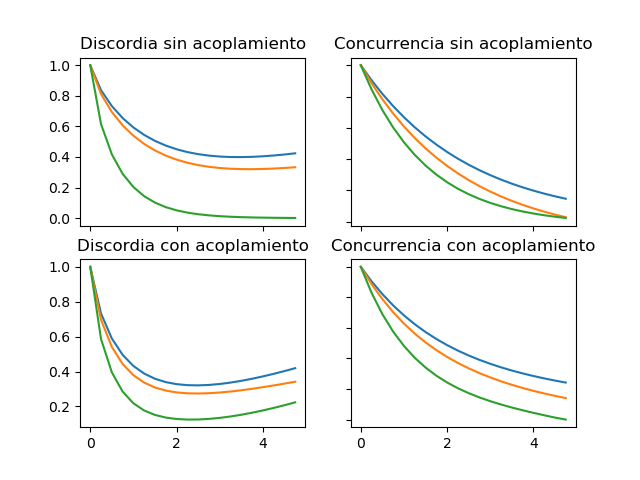
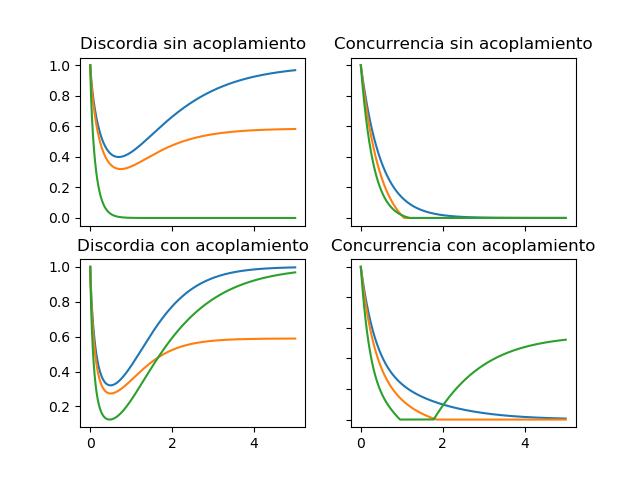
Cambio generado con script

diff --git a/master.py b/master.py
@@ -1,7 +1,7 @@
 from qutip import * #Liberia qutip
 from matplotlib.pyplot import * #Libreria matplotlib
 import numpy as np #Liberia numpy
-times = np.linspace(0,5,100) #definir intervalo temporal 
+times = np.linspace(0,5,20000) #definir intervalo temporal 
 I1 =  (1/(np.sqrt(2)))*(tensor(basis(2,0),basis(2,0))+tensor(basis(2,1),basis(2,1)))#Definir estado inicial Bell 1
 I2 =  (1/(np.sqrt(2)))*(tensor(basis(2,0),basis(2,1))+tensor(basis(2,1),basis(2,0)))#Definir estado inicial Bell 3
 I3 =  tensor(basis(2,0),basis(2,1))#Definir estado inicial logico 01
@@ -32,9 +32,9 @@ def entropy_cond(a,b,t1,t2):
 #Definir funcion que calcula ecuaciones maestras y evaluar si funciona fuera
 def me3(IN,RES):
     sol=mesolve(tensor(identity(2),identity(2)), IN, times, RES)
-    out=[[0 for i in range(20)],[0 for i in range(20)]]
-    conc=[0 for i in range(20)]
-    disc=[0 for i in range(20)]    
+    out=[[0 for i in range(20000)],[0 for i in range(20000)]]
+    conc=[0 for i in range(20000)]
+    disc=[0 for i in range(20000)]    
     def entropy_opt(a):
         ent_comp=[0 for i in range(4)]
         if a.matrix_element(tensor(basis(2,0)),tensor(basis(2,0)))+a.matrix_element(tensor(basis(2,1)),tensor(basis(2,1)))==0:
@@ -53,7 +53,7 @@ def me3(IN,RES):
         else:
             e= min(ent_comp)
         return e
-    for i in range (0,20):
+    for i in range (0,20000):
         mat=Qobj(sol.states[i])
         conc[i]=concurrence(mat),4
         disc[i]=np.abs(-entropy_vn(mat)+entropy_vn(mat.ptrace(0))+entropy_opt(mat))
@@ -62,10 +62,10 @@ def me3(IN,RES):
 
 def me2(IN,RES):
     sol=mesolve(tensor(identity(2),identity(2)), IN, times, RES)
-    out=[[0 for i in range(20)],[0 for i in range(20)]]
-    conc=[0 for i in range(20)]
-    disc=[0 for i in range(20)]
-    for i in range (0,20):
+    out=[[0 for i in range(20000)],[0 for i in range(20000)]]
+    conc=[0 for i in range(20000)]
+    disc=[0 for i in range(20000)]
+    for i in range (0,20000):
         mat=Qobj(sol.states[i])
         c1=mat.eigenenergies()[2]+mat.eigenenergies()[3]-mat.eigenenergies()[0]-mat.eigenenergies()[1]
         c2=mat.eigenenergies()[1]+mat.eigenenergies()[3]-mat.eigenenergies()[0]-mat.eigenenergies()[2]
@@ -79,7 +79,7 @@ def me2(IN,RES):
     out=[conc,disc]
     return out    
 
-tiempo = [(1/4)*i for i in range(20)]#Intervalo de tiempo para los gráficos
+tiempo = [(1/4000)*i for i in range(20000)]#Intervalo de tiempo para los gráficos
 
  
 #Graficar
